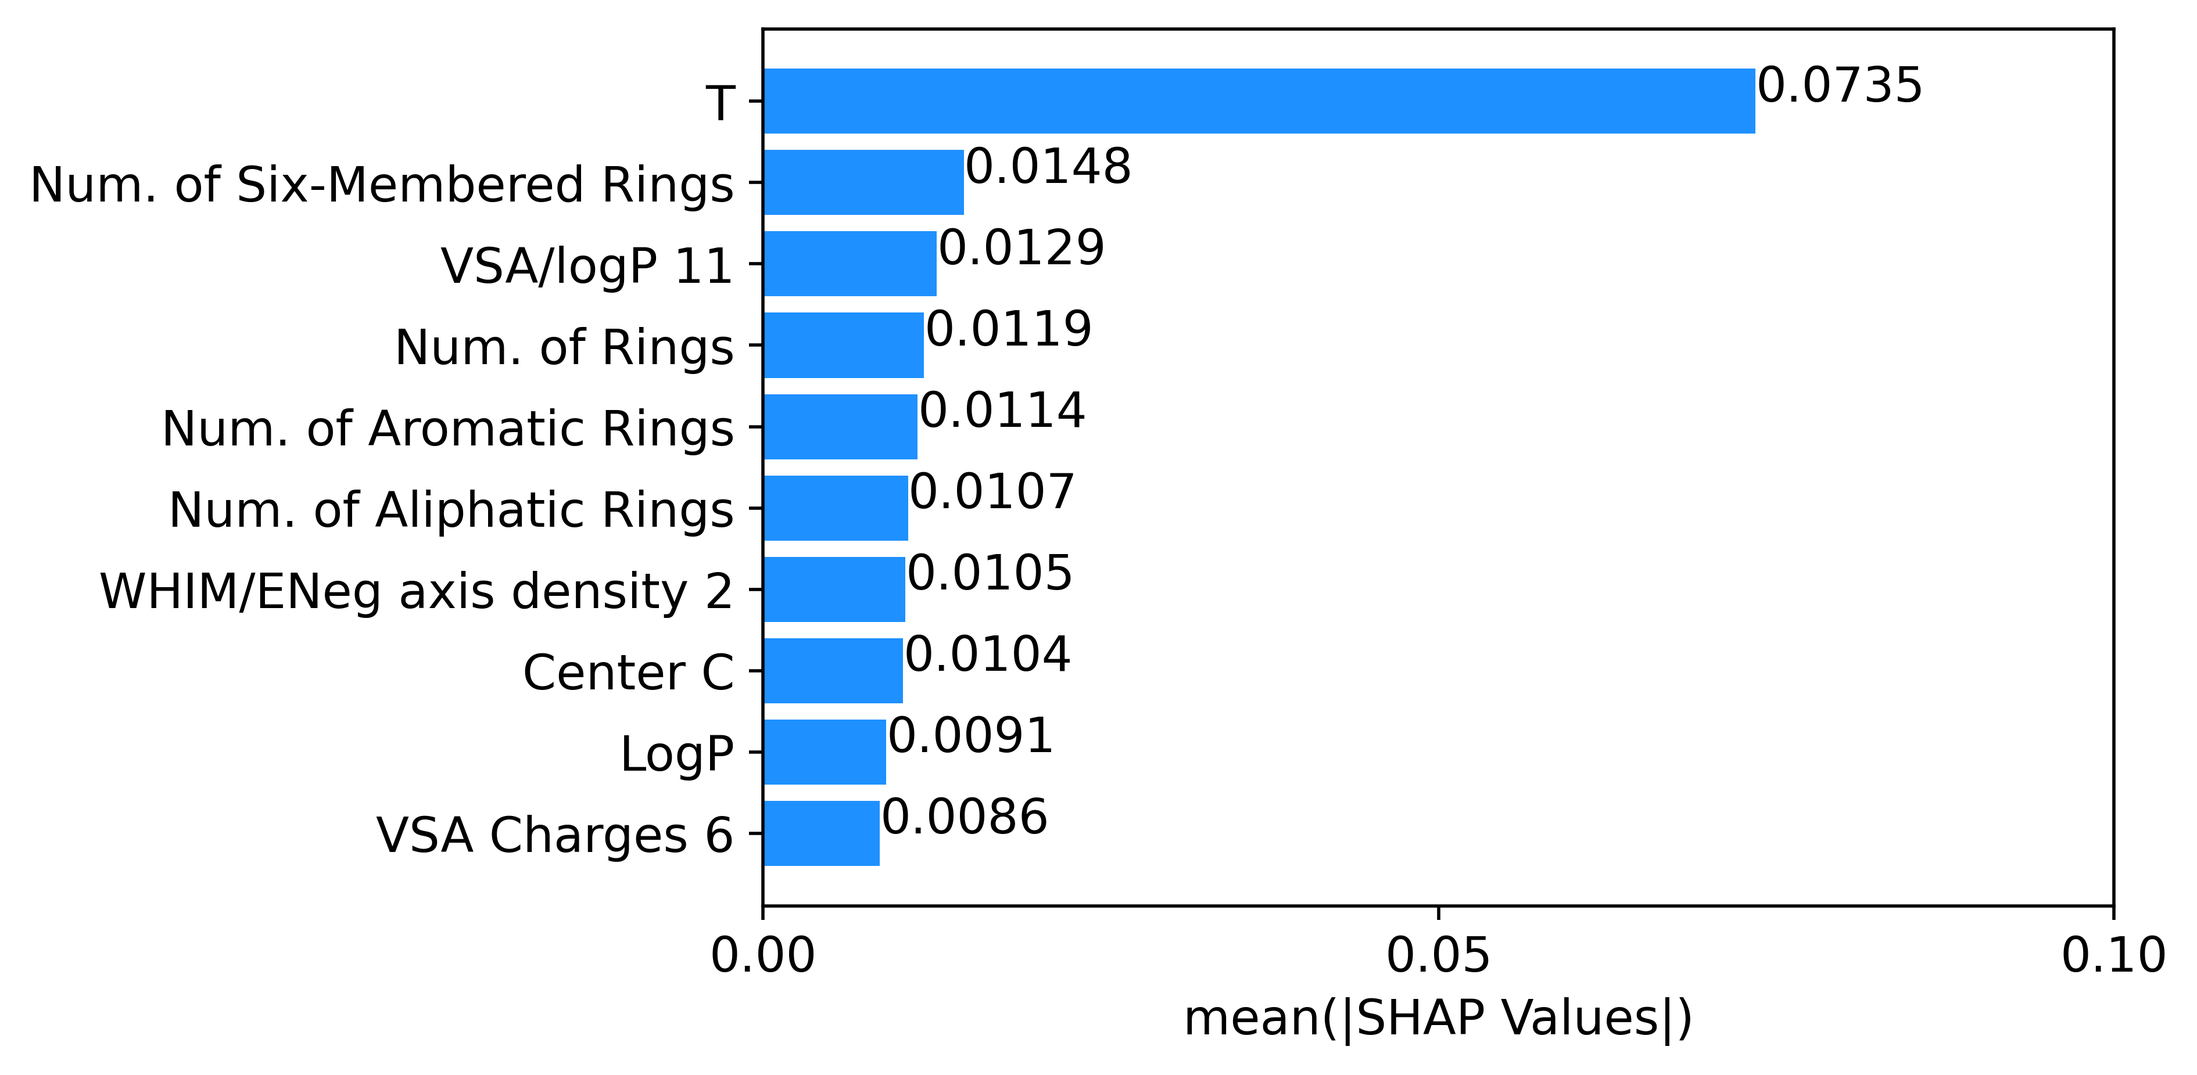
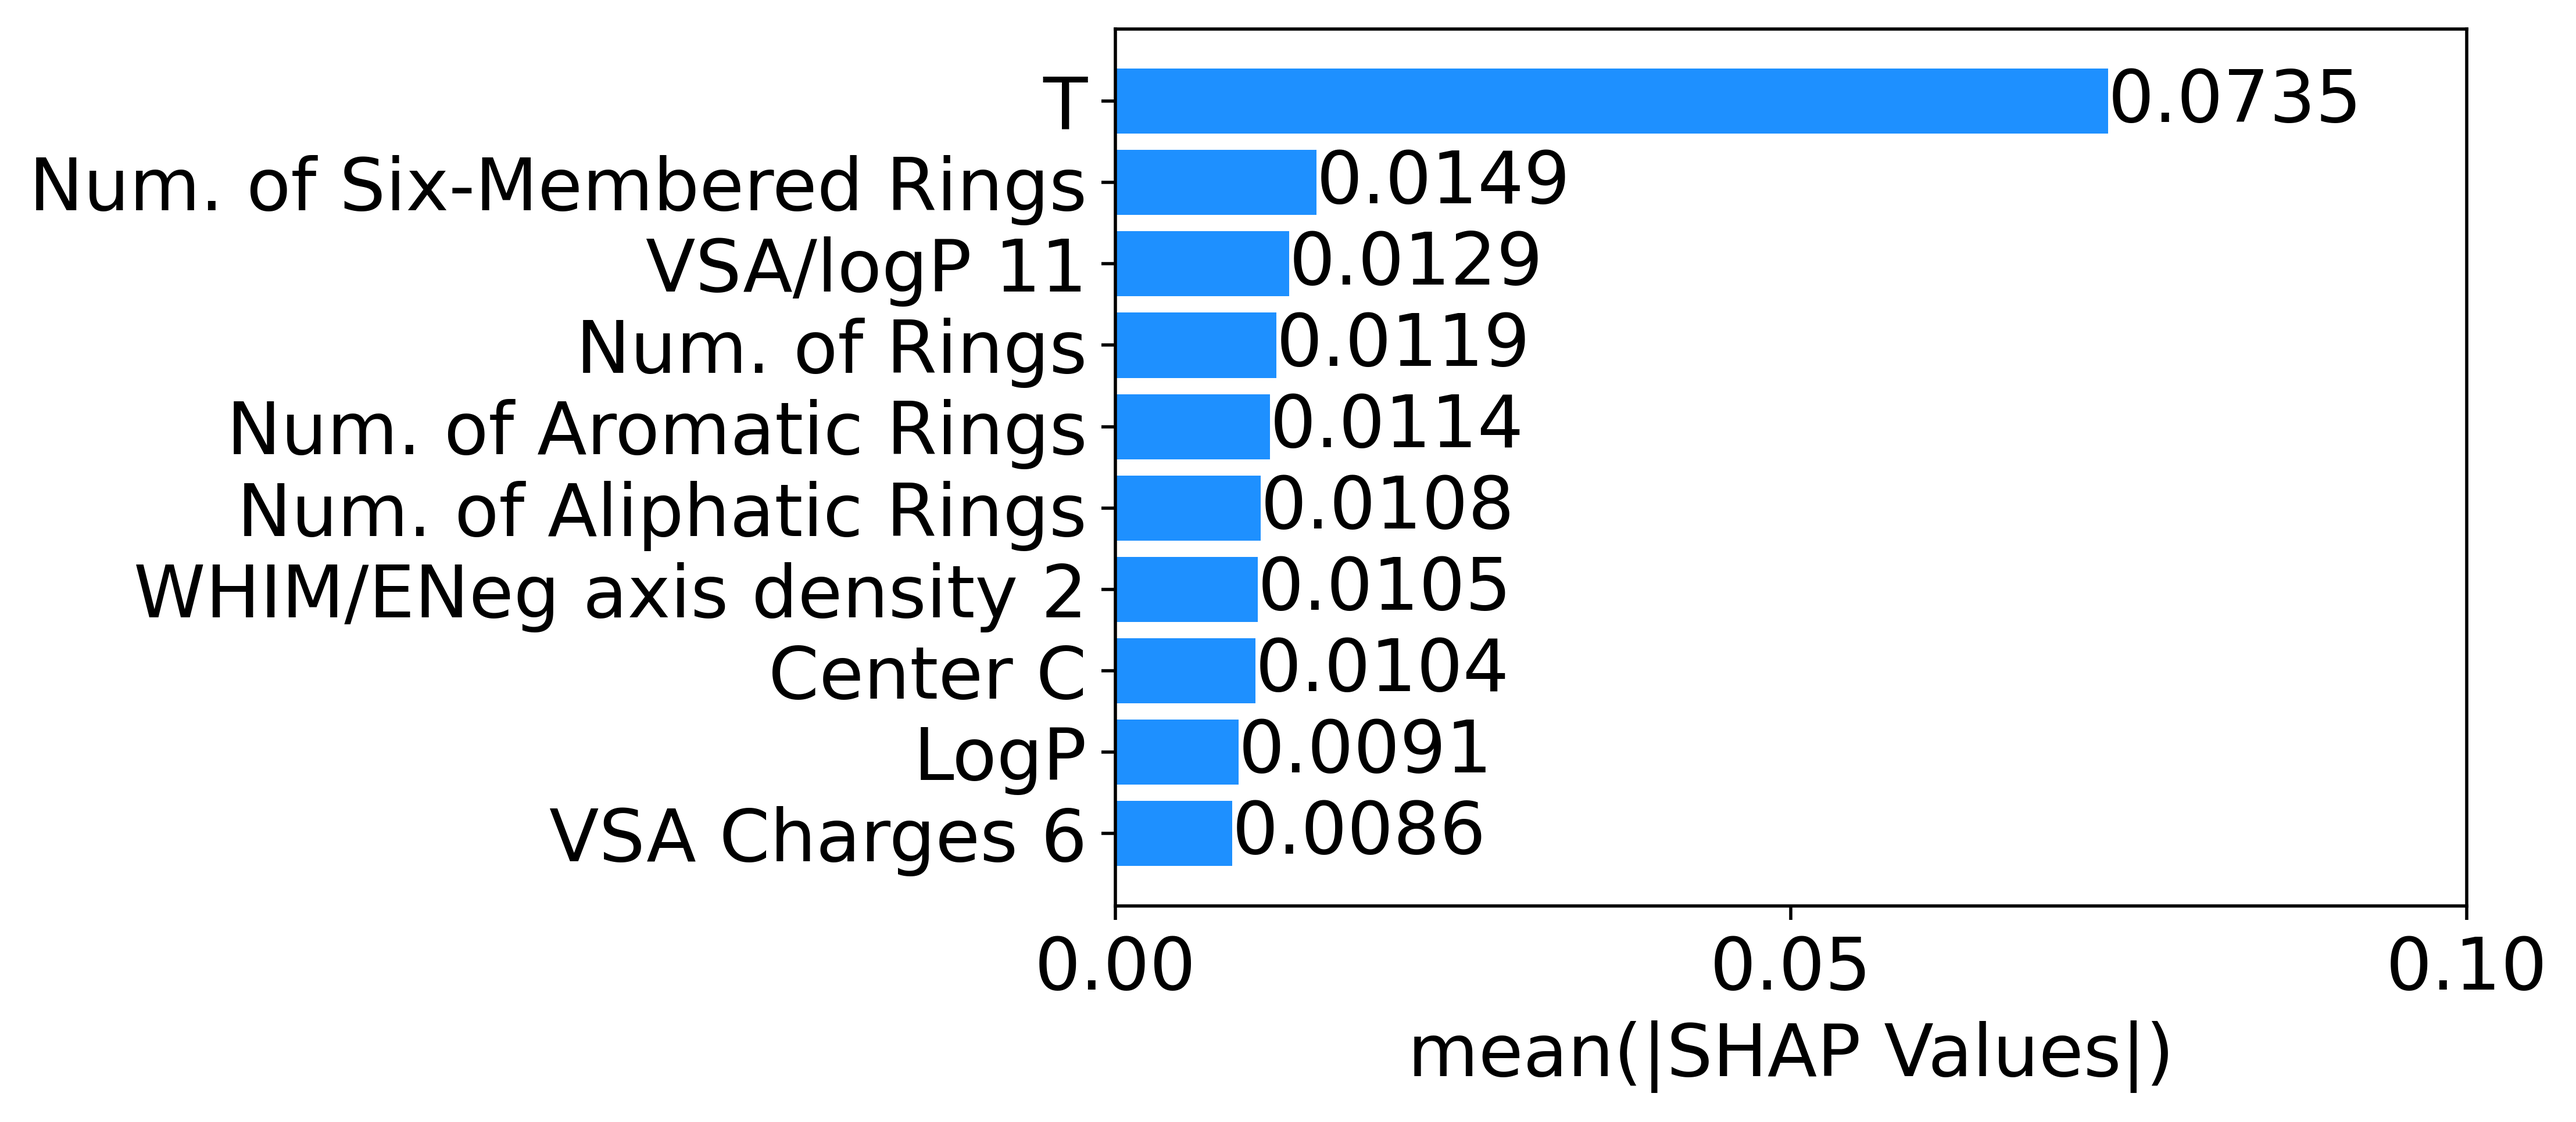
an update

Changed region(s): [[0.0, 0.0308, 0.9987, 0.9854], [0.3745, 0.0, 0.9363, 0.0308]]

diff --git a/FEAL.py b/FEAL.py
@@ -293,7 +293,7 @@ def FE_AL (path, n_samples, seed, pca, fe, use_shap, hold_out, letter, ref_case)
         cols = np.array(X.columns)
         indices = avg_shap.argsort()
         top10 = indices[len(indices)-10:]
-        plt.rcParams['font.size'] = 12
+        plt.rcParams['font.size'] = 18
         f1 = plt.figure()
         ax1 = f1.add_subplot()
         #shap.plots.bar(shap_obj, show=False, max_display=10)
@@ -301,16 +301,23 @@ def FE_AL (path, n_samples, seed, pca, fe, use_shap, hold_out, letter, ref_case)
         plt.barh(range(10), avg_shap[top10], color='dodgerblue', align='center')
         plt.yticks(range(10), cols[top10])
         if (fe=='assoc'):
-            plt.xticks([0,0.05,0.10,0.15,0.2, 0.25,0.30])
+            plt.xticks([0,0.05,0.10,0.15,0.2, 0.25,0.30, 0.35])
         elif(fe=='disassoc'):
             plt.xticks([0,0.05,0.10])
         plt.xlabel('mean(|SHAP Values|)')
         for index, value in enumerate(avg_shap[top10]):
-            plt.text(value, index, str("{:.4f}".format(value)))
+            plt.text(value, index-0.25, str("{:.4f}".format(value)))
         plt.savefig('./figs/shap_bar_'+fe+'.png', dpi=500, bbox_inches='tight')
         f2 = plt.figure()
         ax2 = f2.add_subplot()
-        shap.summary_plot(shap_obj, show=False, max_display=10)    
+        shap.summary_plot(shap_obj, show=False, max_display=10)
+        fig, ax = plt.gcf(), plt.gca()
+        ax.tick_params(axis='both', which='major', labelsize=18)
+        if (fe=='assoc'):
+            ax.set_xticks([-0.3, 0, 0.3])
+        elif(fe=='disassoc'):
+            ax.set_xticks([-0.1, 0, 0.1])
+        ax.set_xlabel("SHAP value (impact on model output)", fontsize=18)
         plt.savefig('./figs/shap_swarm_'+fe+'.png', dpi=500, bbox_inches='tight')
     #=================================================================
     # GPR Training by Random sampling
@@ -438,6 +445,8 @@ def ENAL (df, n_samples, seed, pca, n_reg, fe):
         joblib.dump(committee, "./trained_models/committee.pkl") 
     return np.array(metrics)
 
+
+#==============================================================================
 # Function to get FE at 100 different sampling/testing splits
 def fe_unc (fe):
     seed = np.arange(0,100,1)
@@ -488,4 +497,45 @@ def fe_unc (fe):
         results = np.array(summary)
         np.savetxt('./cases/test_'+fe[k]+'.txt', results)       
 
-
+#==============================================================================
+# Representer Theorem
+def rep_theory (fe, xlim):
+    df = pd.read_csv('./cases/shap.csv')
+    X =  df.drop(['letters','assoc','disassoc'], axis=1)
+    y = df[fe]
+    X_train, X_test, y_train, y_test = train_test_split(X,y,
+                                                    test_size=0.32,
+                                                    random_state=42)
+    gpr = GaussianProcessRegressor(kernel=DotProduct(sigma_0=1),
+                               alpha=1,
+                               random_state=0)
+    scaler_X = MinMaxScaler()
+    scaler_y = MinMaxScaler()
+    X_train = scaler_X.fit_transform(X_train)
+    y_train = scaler_y.fit_transform(np.array(y_train).reshape(-1,1))
+    gpr.fit(X_train,y_train)
+    alpha = gpr.alpha_.reshape(1,-1)
+    w = alpha.dot(X_train)
+    X_test = scaler_X.fit_transform(X_test)
+    y_pred = gpr.predict(X_test)
+    y_pred_2 = []
+    for i in range(len(X_test)):
+        y_pred_2.append(w.dot(X_test[i,:].reshape(-1,1))[0][0])
+    plt.figure()
+    plt.rcParams.update({'font.size': 18})
+    plt.plot(y_pred_2, y_pred)    
+    plt.xlabel('$w\cdot x$')
+    plt.ylabel('$gpr.predict()$')
+    w_abs = np.absolute(w).reshape(-1,1)
+    w_df = pd.DataFrame(w_abs, index=X.columns)
+    w_df = w_df.sort_values(by=0,ascending=False)
+    top10 = w_df[:10]
+    top10 = top10.sort_values(by=0,ascending=True)
+    plt.figure()
+    top10.plot.barh(legend=False, color='dodgerblue')
+    plt.xlabel ('|w|')
+    plt.xlim(xlim)
+    indices = np.array(top10.values).flatten()
+    for index, value in enumerate(indices):
+        plt.text(value, index-0.25, str("{:.4f}".format(value)))
+    plt.savefig('./figs/rep_theory_'+fe+'.png', dpi=500, bbox_inches='tight')

diff --git a/run.py b/run.py
@@ -1,4 +1,4 @@
-from FEAL import FE_AL, plotting, ENAL, fe_unc
+from FEAL import FE_AL, plotting, ENAL, fe_unc, rep_theory
 import numpy as np
              
 #========================================================
@@ -133,20 +133,29 @@ for monomer in monomers:
 
 #===============================================================
 # Use shap
-metrics, metrics_rd, pac_used = FE_AL(df='./cases/shap.csv',
+metrics, metrics_rd = FE_AL(path='./cases/shap.csv',
                    n_samples=100,
                    seed=42,
-                   no_shuf=False,
                    pca=False,
                    fe='assoc',
-                   use_shap=True)
+                   use_shap=True,
+                   hold_out=False,
+                   letter=None,
+                   ref_case=False)
 
 
-metrics, metrics_rd, pac_used = FE_AL(df='./cases/shap.csv',
+metrics, metrics_rd  = FE_AL(path='./cases/shap.csv',
                    n_samples=100,
                    seed=42,
-                   no_shuf=False,
                    pca=False,
                    fe='disassoc',
-                   use_shap=True)
+                   use_shap=True,
+                   hold_out=False,
+                   letter=None,
+                   ref_case=False)
 
+
+#==============================================================================
+# Use Representer Theorem
+rep_theory ('assoc', [0,0.85])
+rep_theory ('disassoc', [0,0.27])
